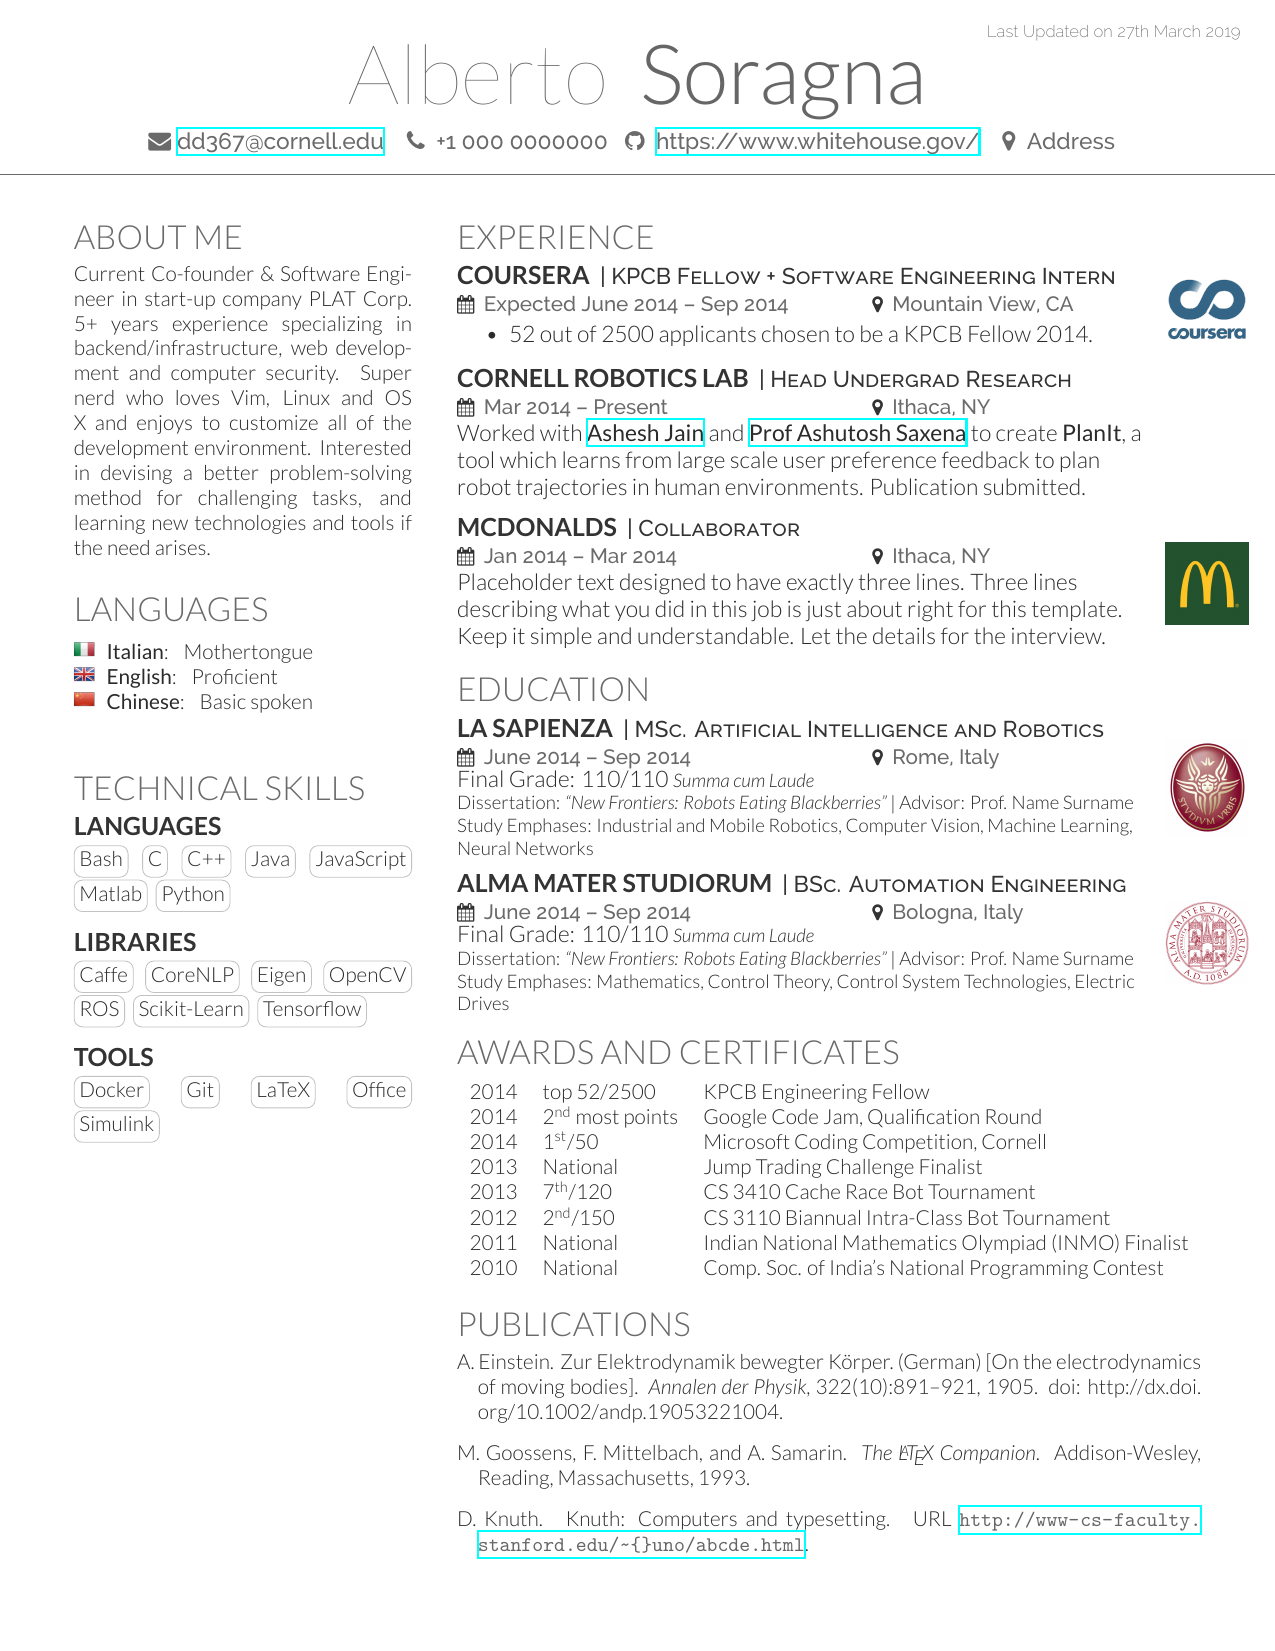
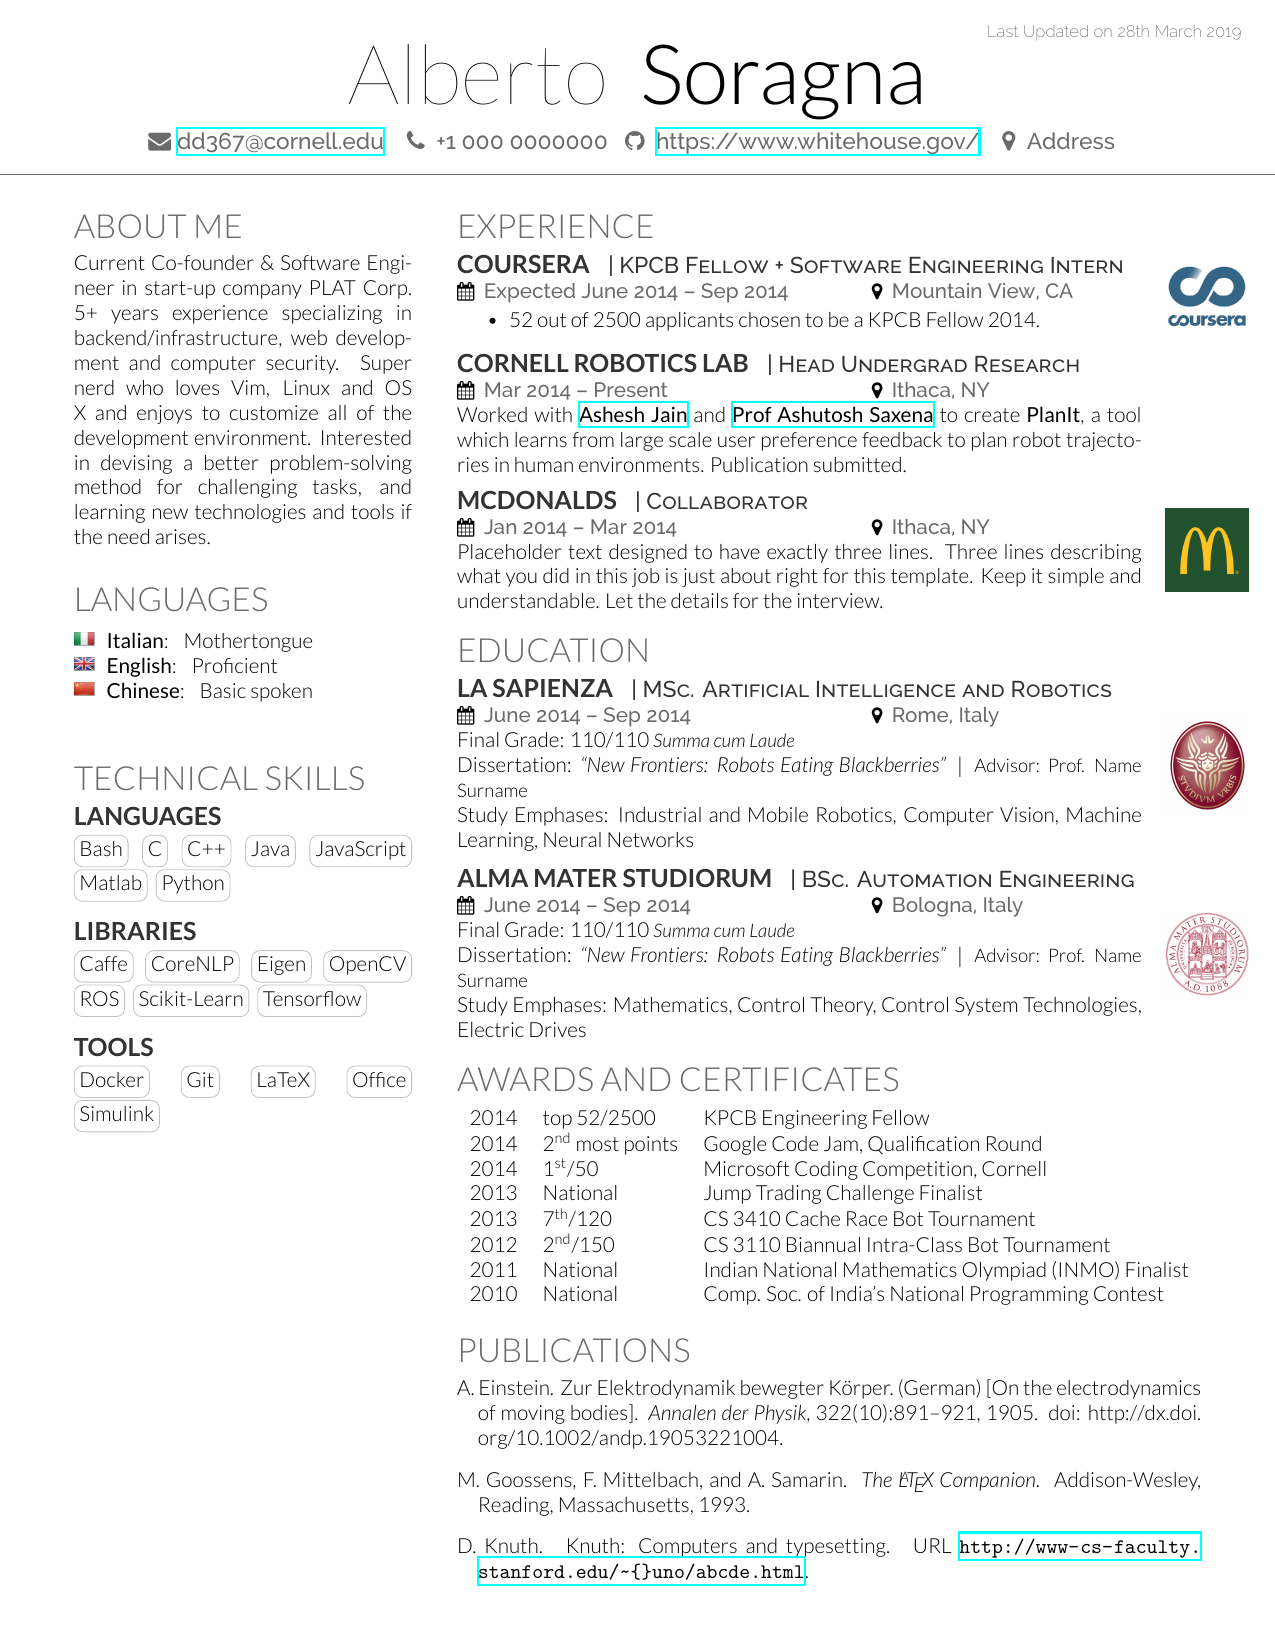
scoped font specifications

diff --git a/cv_sample.tex b/cv_sample.tex
@@ -16,16 +16,12 @@
 \lastupdated % Print the Last Updated text at the top right
 
 
-%\namesection{Alberto}{Soragna} % Your name
-%{ % your data
-%\urlstyle{same}\url{http://debarghyadas.com}
-%\href{mailto:dd367@cornell.edu}{dd367@cornell.edu} | 607.379.5733 % Your contact information
-%}
-
 \headersection{
     name={Alberto},
     surname={Soragna},
-    mail={dd367@cornell.edu}
+    mail={dd367@cornell.edu},
+    website={https://www.whitehouse.gov/},
+    address={Address}
 }
 
 %----------------------------------------------------------------------------------------
@@ -162,8 +158,8 @@ Placeholder text designed to have exactly three lines. Three lines describing wh
     location={Rome, Italy},
     logo={images/logo/sapienza.jpg},
     description={
-	Final Grade: 110/110  \small\emph{Summa cum Laude}\\
-	Dissertation: \emph{``New Frontiers: Robots Eating Blackberries''}  $|$ \small Advisor: Prof. Name \textsc{Surname}\\
+	Final Grade: 110/110  {\small\emph{Summa cum Laude}}\\
+	Dissertation: \emph{``New Frontiers: Robots Eating Blackberries''}  $~|~$ {\small Advisor: Prof. Name \textsc{Surname}}\\
 	Study Emphases: Industrial and Mobile Robotics, Computer Vision, Machine Learning, Neural Networks
     }
 }
@@ -177,8 +173,8 @@ Placeholder text designed to have exactly three lines. Three lines describing wh
     location={Bologna, Italy},
     logo={images/logo/almamater.png},
     description={
-	Final Grade: 110/110  \small\emph{Summa cum Laude}\\
-	Dissertation: \emph{``New Frontiers: Robots Eating Blackberries''}  $|$ \small Advisor: Prof. Name \textsc{Surname}\\
+	Final Grade: 110/110  {\small\emph{Summa cum Laude}}\\
+	Dissertation: \emph{``New Frontiers: Robots Eating Blackberries''}  $~|~$ {\small Advisor: Prof. Name \textsc{Surname}}\\
 	Study Emphases: Mathematics, Control Theory, Control System Technologies, Electric Drives
     }
 }

diff --git a/README.md b/README.md
@@ -14,4 +14,4 @@ make
 
 
 
-<img src="cv.png" alt="Resume example" width="75%" height="75%"/>
+<img src="cv_sample.png" alt="Resume example" width="75%" height="75%"/>
